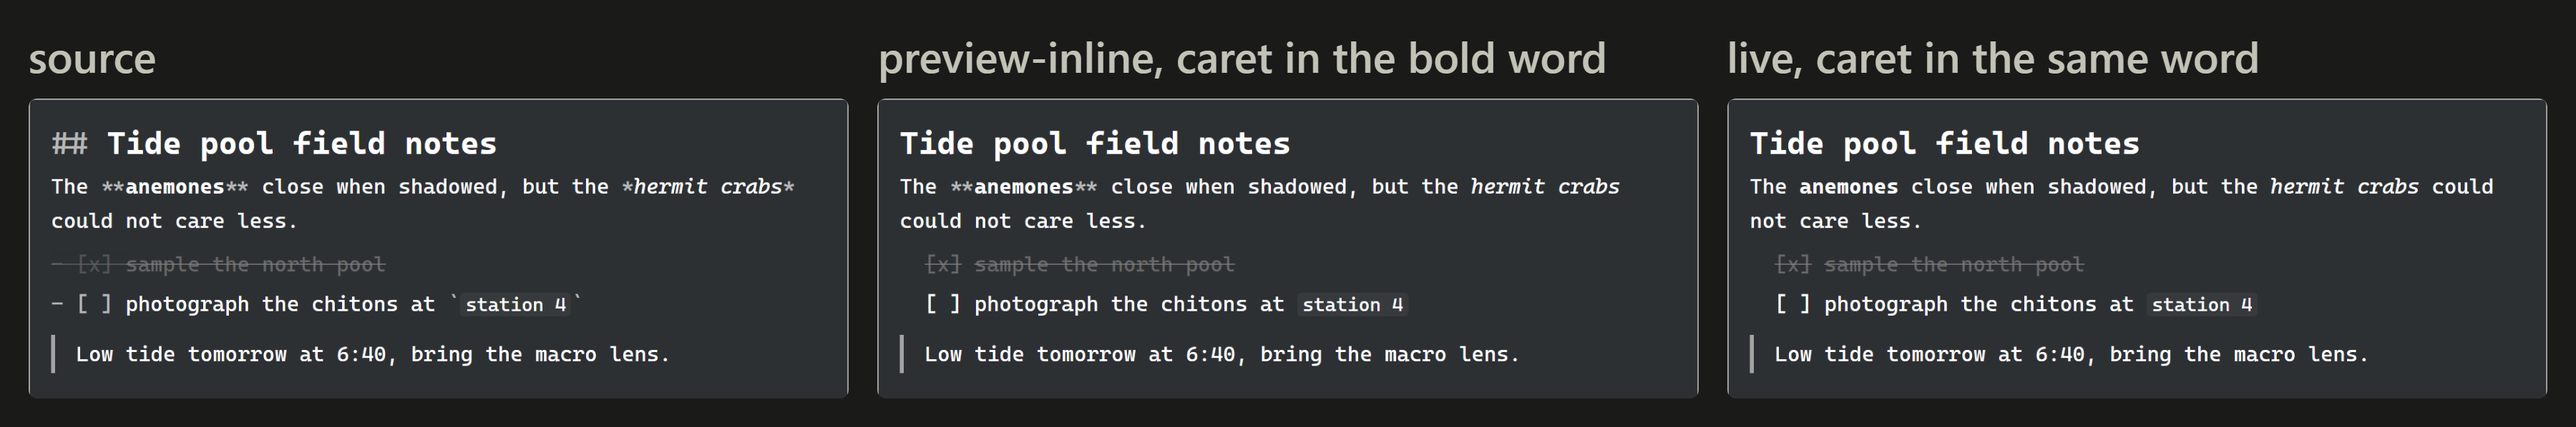
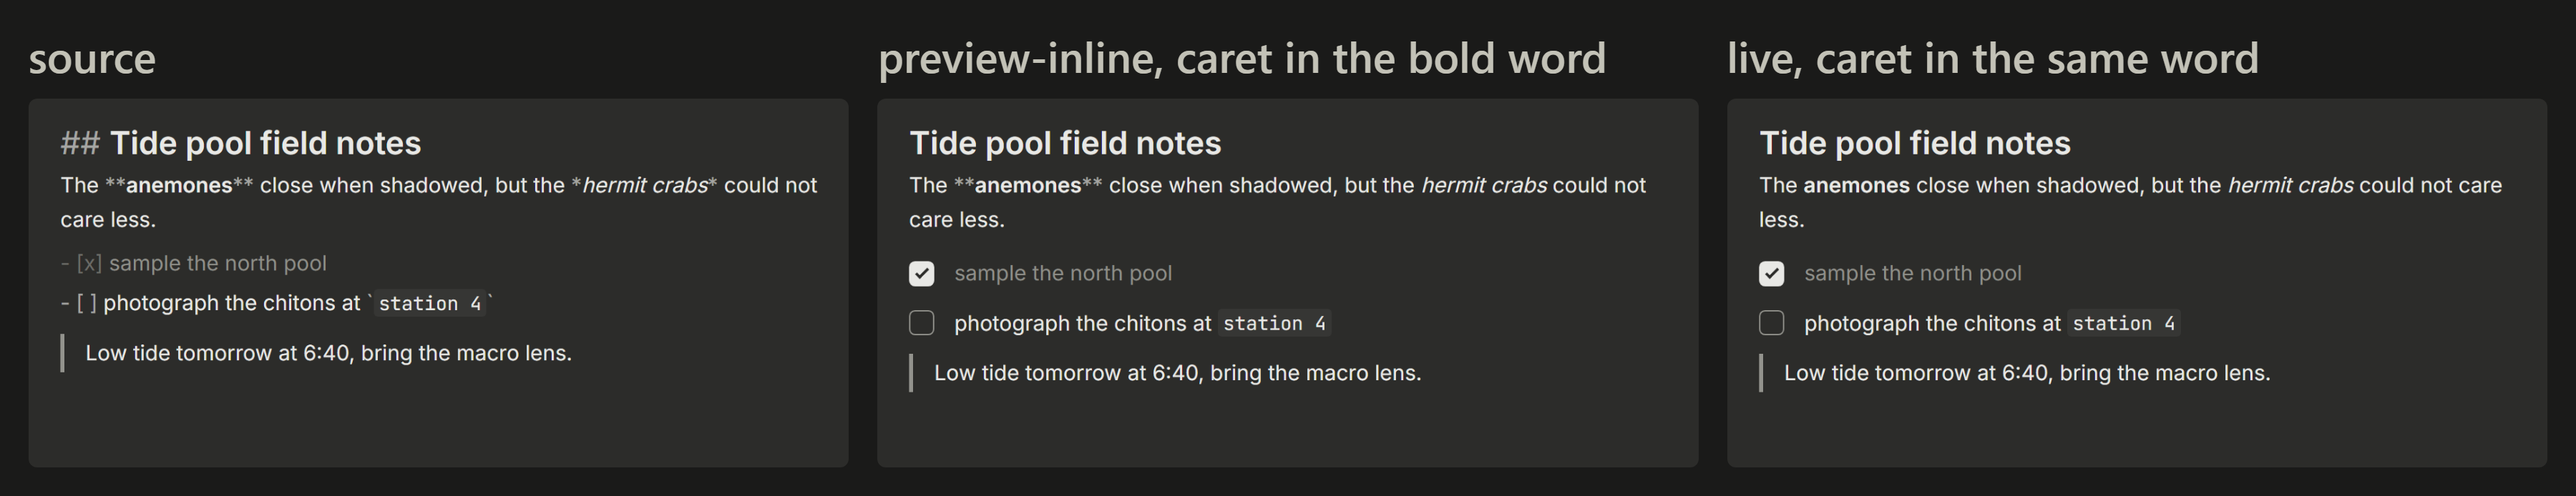
@ (readme) the presentation strip shows today's editor, uncropped

diff --git a/src/lib/e2e/tests/capture/presentation-modes.spec.ts b/src/lib/e2e/tests/capture/presentation-modes.spec.ts
@@ -2,6 +2,7 @@
 // Each panel is its own page load, because the preview modes show markers only around a focused
 // caret and one document has one focus; building the strip from data URIs keeps this free of
 // dependencies.
+import type { Page } from '@playwright/test';
 import { test, expect } from '../../fixtures';
 import { EditorPage } from '../../editor-page';
 import { textRunCenter } from '../../text-runs';
@@ -38,10 +39,8 @@ const SURFACES = {
 	dark: { page: '#1a1a19', caption: '#c3c2b7' }
 } as const;
 
-// Cropped to a common band so three panels of differing natural height align; hidden markers
-// reflow the text, so equal heights cannot be assumed.
-const PANEL_HEIGHT_PX = 210;
-
+// Hidden markers reflow the text, so each mode's note has its own height; every panel is shot at
+// the tallest, so the three line up and nothing is cropped.
 function compositionHtml(shots: string[], theme: keyof typeof SURFACES): string {
 	const { page, caption } = SURFACES[theme];
 	const captions = PANELS.map((p) => `<figcaption>${p.caption}</figcaption>`).join('');
@@ -51,34 +50,54 @@ function compositionHtml(shots: string[], theme: keyof typeof SURFACES): string 
     body{background:${page}}
     .strip{display:grid;grid-template-columns:repeat(3,1fr);gap:10px 20px;padding:20px;width:1800px}
     figcaption{font:600 30px/1.3 ui-sans-serif,system-ui,sans-serif;color:${caption}}
-    img{display:block;width:100%;height:${PANEL_HEIGHT_PX}px;object-fit:cover;object-position:top left;border-radius:6px}
+    img{display:block;width:100%;height:auto;border-radius:6px}
   </style><div class="strip">${captions}${images}</div>`;
+}
+
+/** One mode's editor holding the note, the caret in the bold word, sized to the note. */
+async function openPanel(page: Page, mode: (typeof PANELS)[number]['mode']): Promise<EditorPage> {
+	const ep = new EditorPage(page);
+	// Drag handles off and the default theme, so neither reads as a difference between the modes.
+	await ep.goto(`?presentationMode=${mode}&dragHandles=false`);
+	await ep.loadContent(NOTE);
+
+	if (mode !== 'source') {
+		await expect(ep.editorContainer).toHaveAttribute('data-presentation', mode);
+		// The harness header sits above the editor, so the word can fall off screen and a click at
+		// fixed coordinates would land on nothing.
+		await ep.editorContainer.scrollIntoViewIfNeeded();
+		const { x, y } = await textRunCenter(page, CARET_WORD);
+		await page.mouse.click(x, y);
+		// The markers appear around the caret, so the shot is only honest once it has landed.
+		await expect
+			.poll(async () => (await ep.bridge.getSelectionPaths())?.focus.path.length ?? 0)
+			.toBeGreaterThan(0);
+		// Move the pointer off the page, so nothing that appears on hover gets into the shot.
+		await page.mouse.move(0, 0);
+	}
+	// The harness gives the editor a minimum height; the panel is the note, not the empty box.
+	await ep.editorContainer.evaluate((el) => {
+		el.style.minHeight = '0';
+		el.style.height = 'auto';
+		el.style.flex = 'none';
+	});
+	return ep;
 }
 
 for (const theme of ['light', 'dark'] as const) {
 	test(`presentation-mode strip: ${theme}`, async ({ page }) => {
-		const shots: string[] = [];
-
+		let tallest = 0;
 		for (const { mode } of PANELS) {
-			const ep = new EditorPage(page);
-			// Drag handles off and the default theme, so neither reads as a difference between the modes.
-			await ep.goto(`?presentationMode=${mode}&dragHandles=false`);
-			await ep.loadContent(NOTE);
+			const ep = await openPanel(page, mode);
+			const height = await ep.editorContainer.evaluate((el) => el.getBoundingClientRect().height);
+			tallest = Math.max(tallest, height);
+		}
 
-			if (mode !== 'source') {
-				await expect(ep.editorContainer).toHaveAttribute('data-presentation', mode);
-				// The harness header sits above the editor, so the word can fall off screen and a
-				// click at fixed coordinates would land on nothing.
-				await ep.editorContainer.scrollIntoViewIfNeeded();
-				const { x, y } = await textRunCenter(page, CARET_WORD);
-				await page.mouse.click(x, y);
-				// The markers appear around the caret, so the shot is only honest once it has landed.
-				await expect
-					.poll(async () => (await ep.bridge.getSelectionPaths())?.focus.path.length ?? 0)
-					.toBeGreaterThan(0);
-				// Move the pointer off the page, so nothing that appears on hover gets into the shot.
-				await page.mouse.move(0, 0);
-			}
+		const shots: string[] = [];
+		for (const { mode } of PANELS) {
+			const ep = await openPanel(page, mode);
+			// The editor paints the extra room itself, so a shorter panel matches the tallest exactly.
+			await ep.editorContainer.evaluate((el, px) => (el.style.minHeight = `${px}px`), tallest);
 			shots.push((await ep.editorContainer.screenshot()).toString('base64'));
 		}
 

diff --git a/src/lib/e2e/requirements/capture/presentation-modes.md b/src/lib/e2e/requirements/capture/presentation-modes.md
@@ -32,7 +32,7 @@ so the bullets below are the picture's contract.
 - drag handles are off in every panel, so a control that appears on hover cannot read as a
   difference between modes
 - the pointer is moved away from the text before each shot
-- panels are cropped to one common height, since hidden markers reflow the text and natural heights differ
+- every panel is shot at the tallest mode's height, the editor sized to its note first, since hidden markers reflow the text and natural heights differ; nothing is cropped
 - each caption names the mode and where the caret is
 
 ## Failure cases
